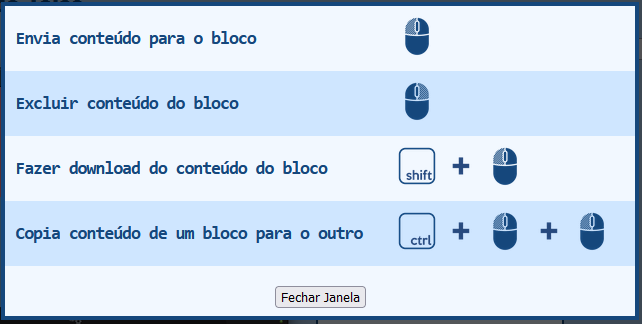
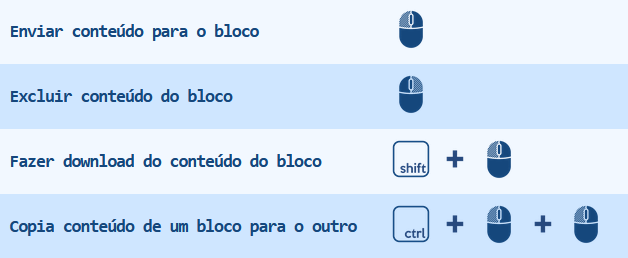
Typo

diff --git a/admin/index.php b/admin/index.php
@@ -170,7 +170,7 @@
 		<table class="comandos">
 			<tr>
 				<td>
-					Envia conteúdo para o bloco
+					Enviar conteúdo para o bloco
 				</td>
 				<td>
 					<img src="css/img/mouse_esquerdo.png" class="icone">
